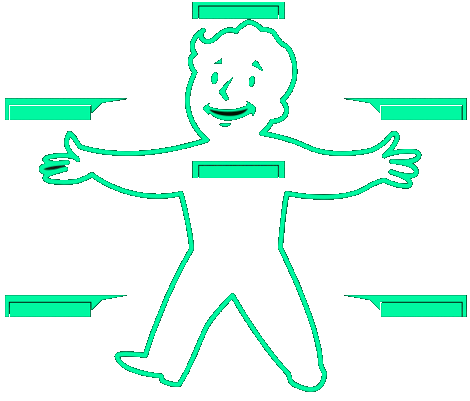
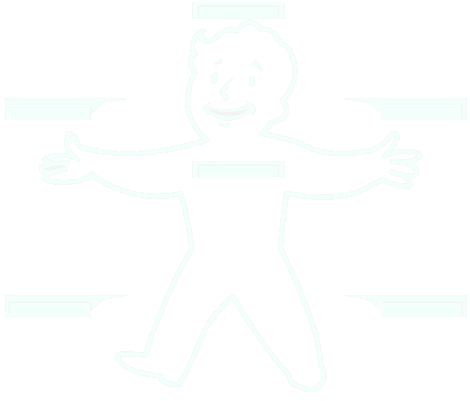
Updated Actors->Status
Replaced Vaultboy image with a notes field for players to keep track of their progress

diff --git a/css/falloutzero.css b/css/falloutzero.css
@@ -613,3 +613,21 @@ td,
 .karmaCap input {
   float: left;
 }
+
+form td .status-notes{
+	height:334px;
+	text-align:left;
+	overflow:scroll;
+	background-color:#222;
+	background-image:url('/systems/arcane-arcade-fallout/assets/vaultboy/vaultboy-icon.png');
+	background-size:cover;
+	background-repeat:no-repeat;
+	font-size:10pt;
+	padding:20px;
+}
+
+form td .status-notes option,
+form td .status-notes li,
+form td .status-notes li:hover{
+	background:black;
+}
